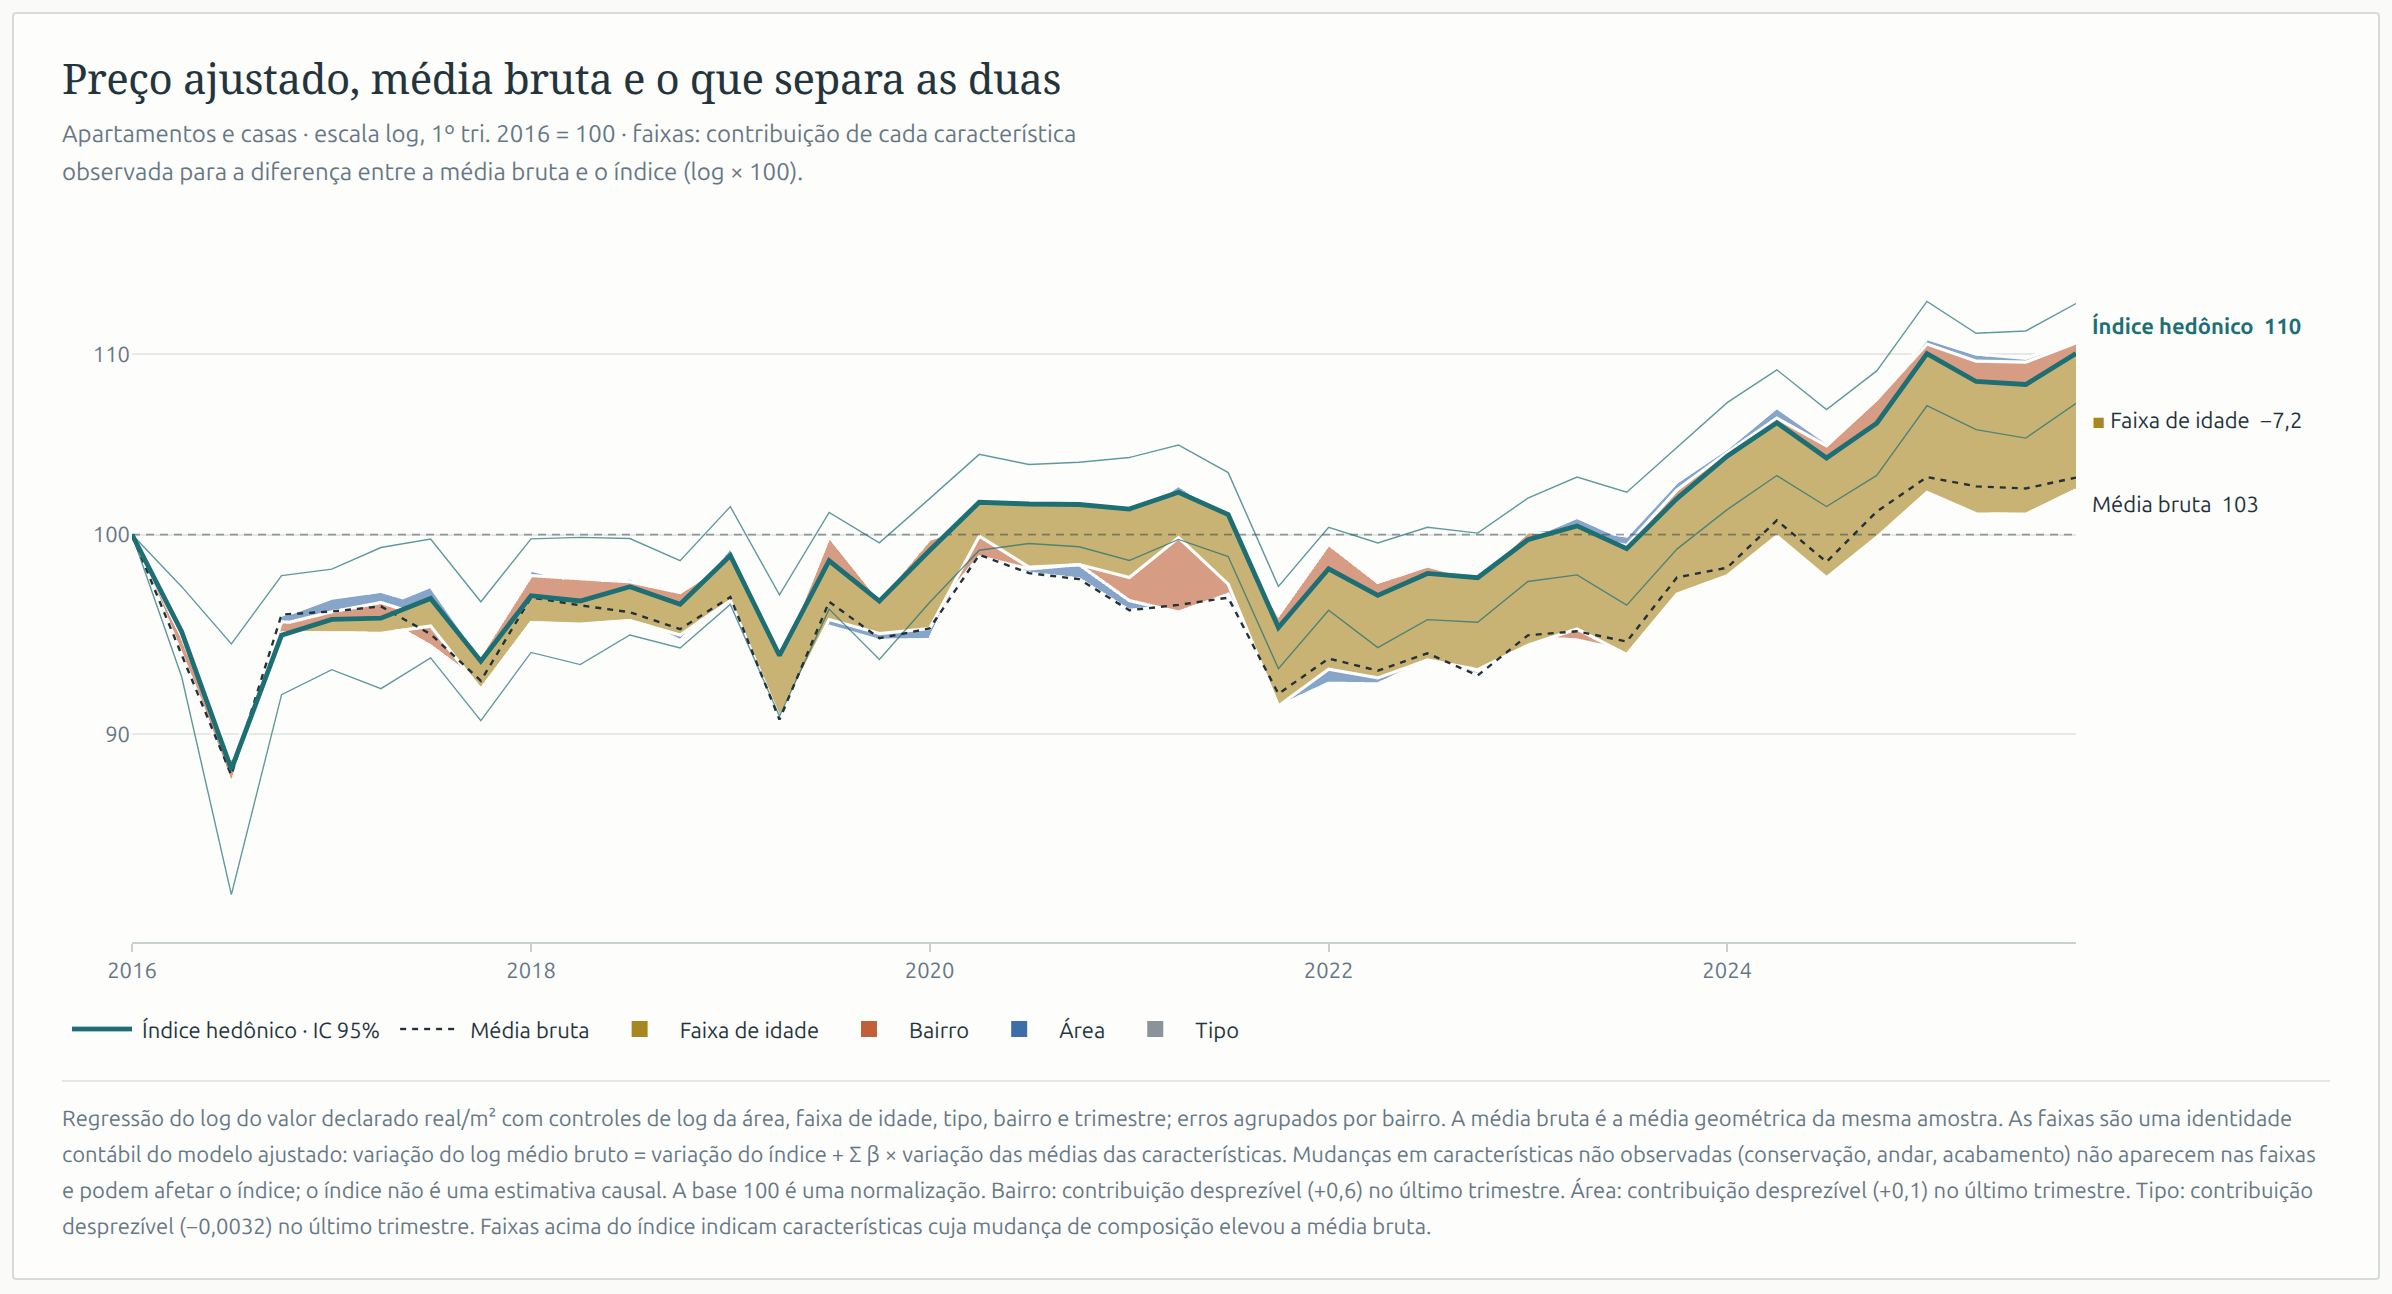
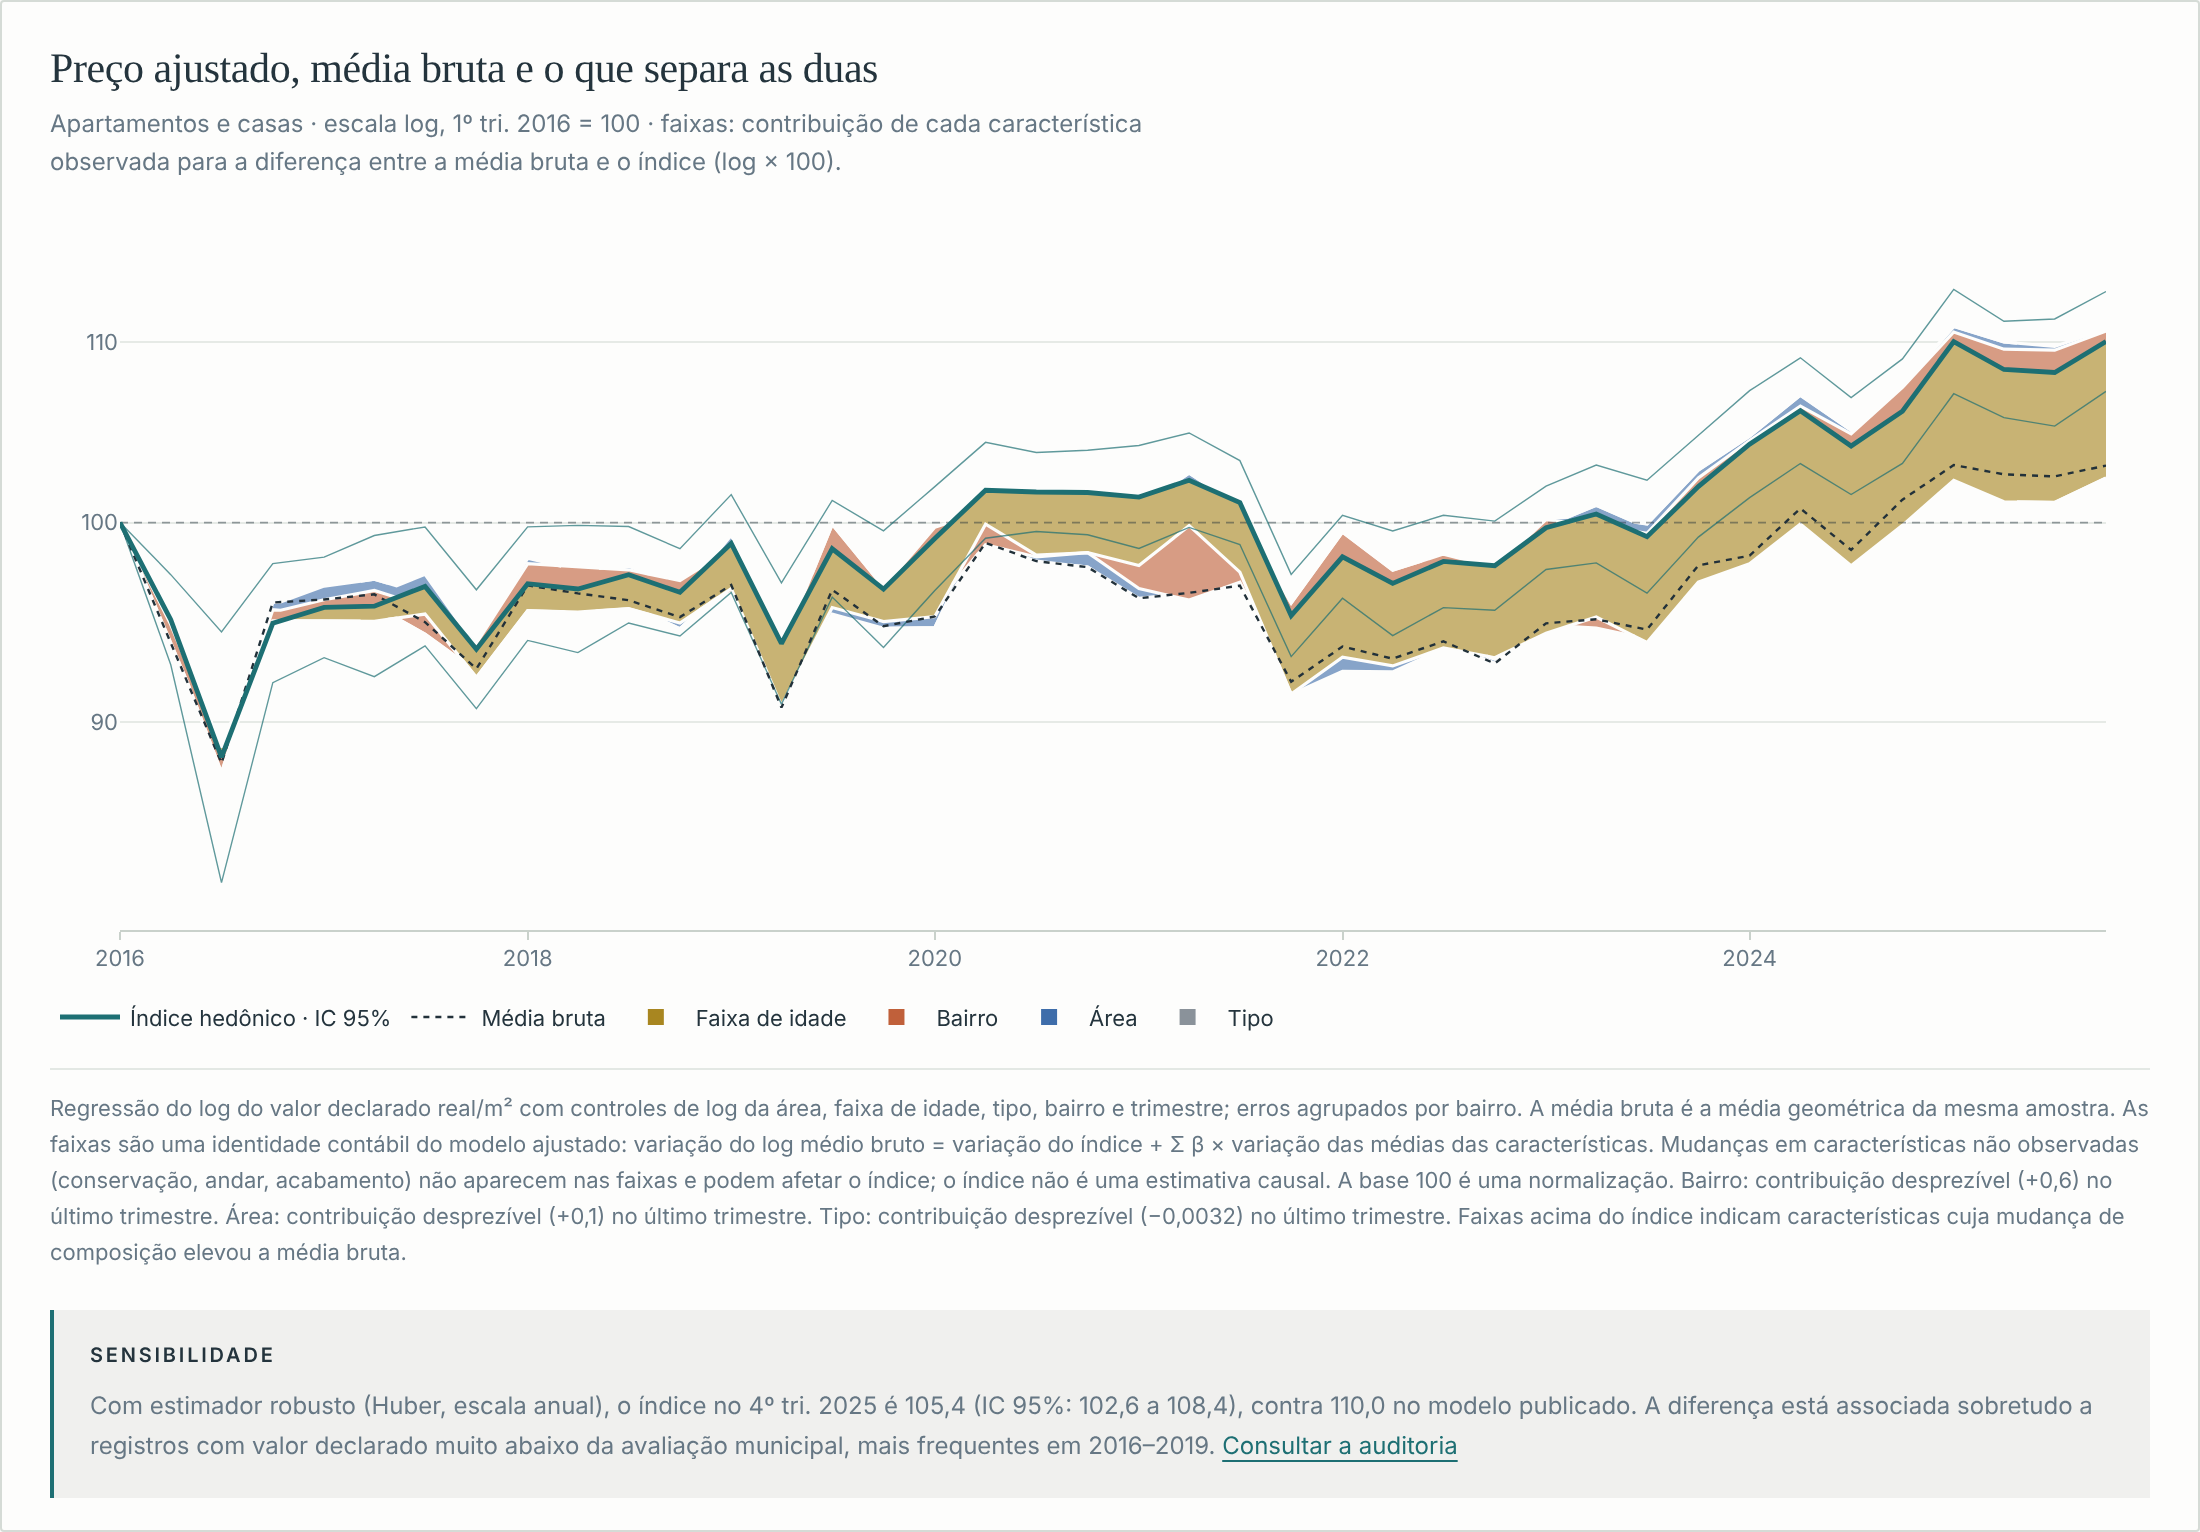
DOC: Recapture README screenshots for the patterns release

diff --git a/README.md b/README.md
@@ -18,6 +18,10 @@ Mapas, distribuições e índices para explorar o mercado residencial de Belo Ho
 
 A aba de índices também apresenta três padrões de trajetória para apartamentos. As medianas por biênio usam valores reais por m² ajustados por área e faixa de idade, centrados na média de cada bairro. A frequência de permanência no mesmo padrão nas reamostragens distingue bairros firmes e de fronteira.
 
+![Três painéis de padrões de trajetória por bairro: queda e estabilização, estáveis e alta recente, com o centro de cada padrão em linha forte, bairros firmes em linhas finas e bairros de fronteira em tracejado cinza.](docs/images/padroes-trajetoria.png)
+
+*Padrões de trajetória de apartamentos por biênio (100 = média do próprio bairro em 2016–2025), com firmeza avaliada por reamostragem de faces de quadra.*
+
 ## Executar localmente
 
 Com o [uv](https://docs.astral.sh/uv/) instalado, na pasta do projeto:
